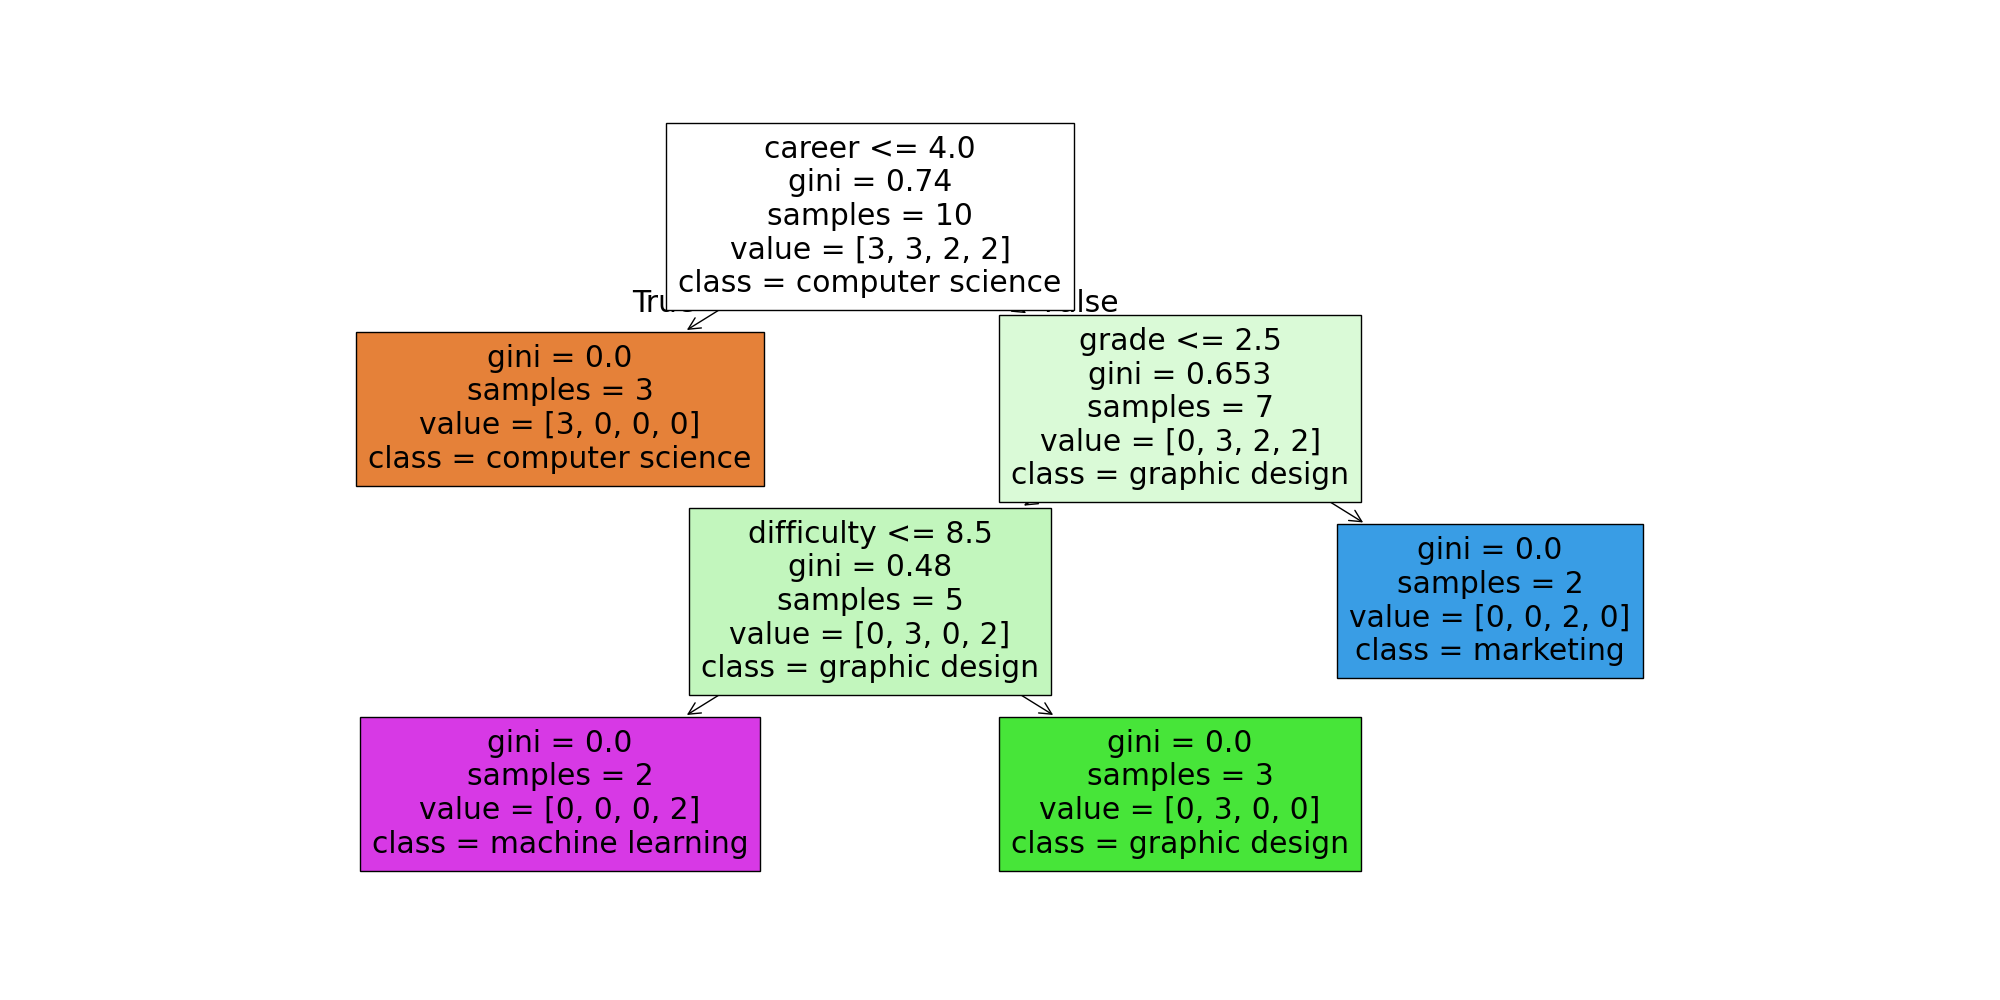
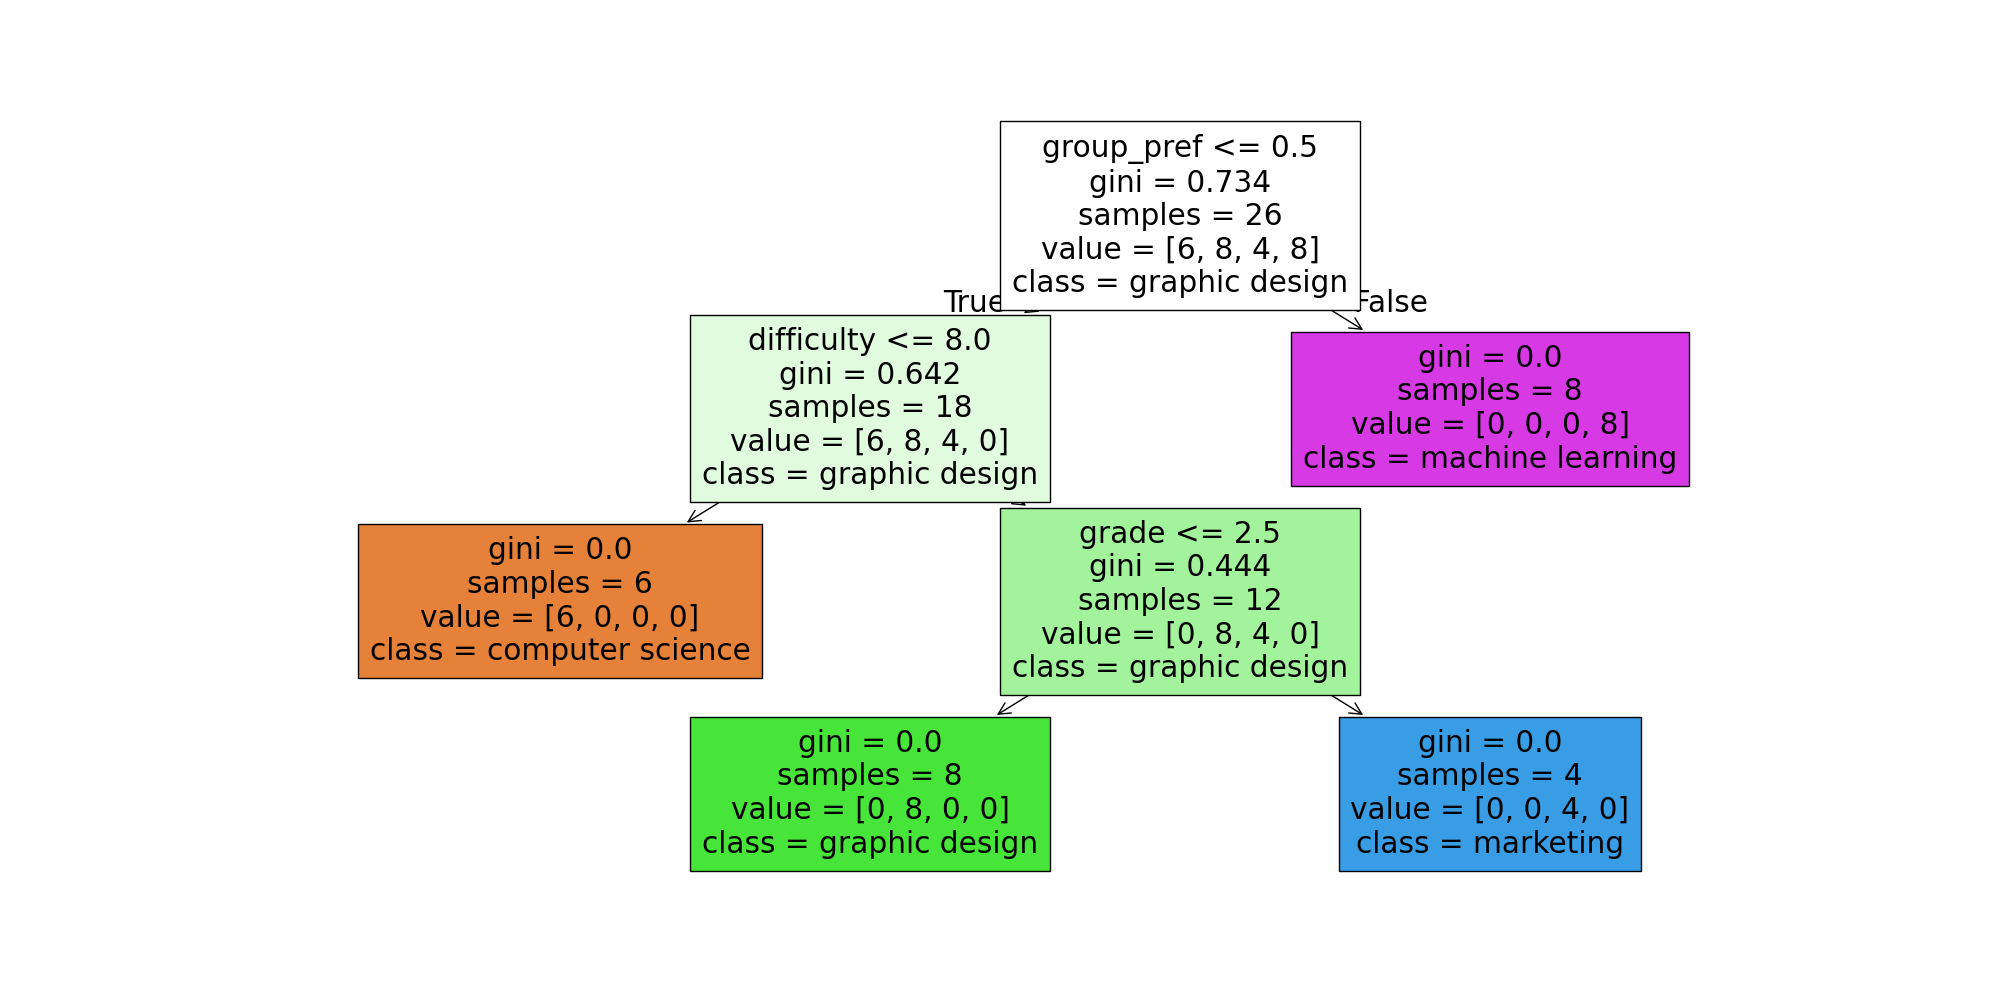
decision tree improvement

diff --git a/decisionTree.py b/decisionTree.py
@@ -13,14 +13,6 @@ df['grade'] = df['grade'].map(grade_map)
 learning_pref_map = {'Practical': 1, 'Theoretical': 0}
 df['learning_pref'] = df['learning_pref'].map(learning_pref_map)
 
-subject_map = {
-    'Theoretical': 0, 'Science': 1, 'Math': 2, 'Ela': 3, 
-    'Computer Science': 4, 'Robotics': 5, 'History': 6, 
-    'Engineering': 7, 'Art': 8, 'Music': 9, 
-    'Performing Arts': 10, 'Audio Visual (AV)': 11
-}
-df['subject'] = df['subject'].map(subject_map)
-
 career_map = {
     'Law': 0, 'Finance': 1, 'Medicine': 2, 'Software Development': 3, 
     'Teaching/Education': 4, 'Marketing': 5, 'Data Science': 6, 
@@ -28,7 +20,6 @@ career_map = {
     'Culinary Arts': 10, 'Engineering(Mechanical, Electrical, Civil, ect...)': 11, 
     'Graphic Design': 12, 'Movie/Show Production': 13
 }
-df['career'] = df['career'].map(career_map)
 
 group_pref_map = {'Group': 0, 'Independent': 1, 'No preference': 2}
 df['group_pref'] = df['group_pref'].map(group_pref_map)
@@ -42,6 +33,35 @@ elective_map = {'computer science': 0,
                 'machine learning': 3,
                 }
 df['elective'] = df['elective'].map(elective_map)
+
+# Expand rows for multiple careers
+new_df = pd.DataFrame()
+for index, row in df.iterrows():
+    careers = row['career'].split(', ')
+    for career in careers:
+        new_row = row.copy()
+        new_row['career'] = career_map[career.strip()]
+        new_df = new_df._append(new_row, ignore_index=True)
+df = new_df
+print(df)
+
+subject_map = {
+    'Theoretical': 0, 'Science': 1, 'Math': 2, 'Ela': 3, 
+    'Photography/Videography': 4, 'Robotics': 5, 'History': 6, 
+    'Engineering': 7, 'Art': 8, 'Music': 9, 
+    'Performing Arts': 10, 'Audio Visual (AV)': 11
+}
+
+# Expand rows for multiple subjects
+new_df = pd.DataFrame()
+for index, row in df.iterrows():
+    subjects = row['subject'].split(', ')
+    for subject in subjects:
+        new_row = row.copy()
+        new_row['subject'] = subject_map[subject.strip()]
+        new_df = new_df._append(new_row, ignore_index=True)
+df = new_df
+print(df)
 
 # Defining features and target
 features = ['grade', 'subject', 'learning_pref', 'career', 'group_pref', 'difficulty']
@@ -65,3 +85,4 @@ plt.figure(figsize=(20,10))
 plot_tree(dtree, feature_names=features, class_names=list(elective_map.keys()), filled=True)
 plt.savefig("decision_tree.png")  # Save to file
 plt.show()  # Display the plot
+
